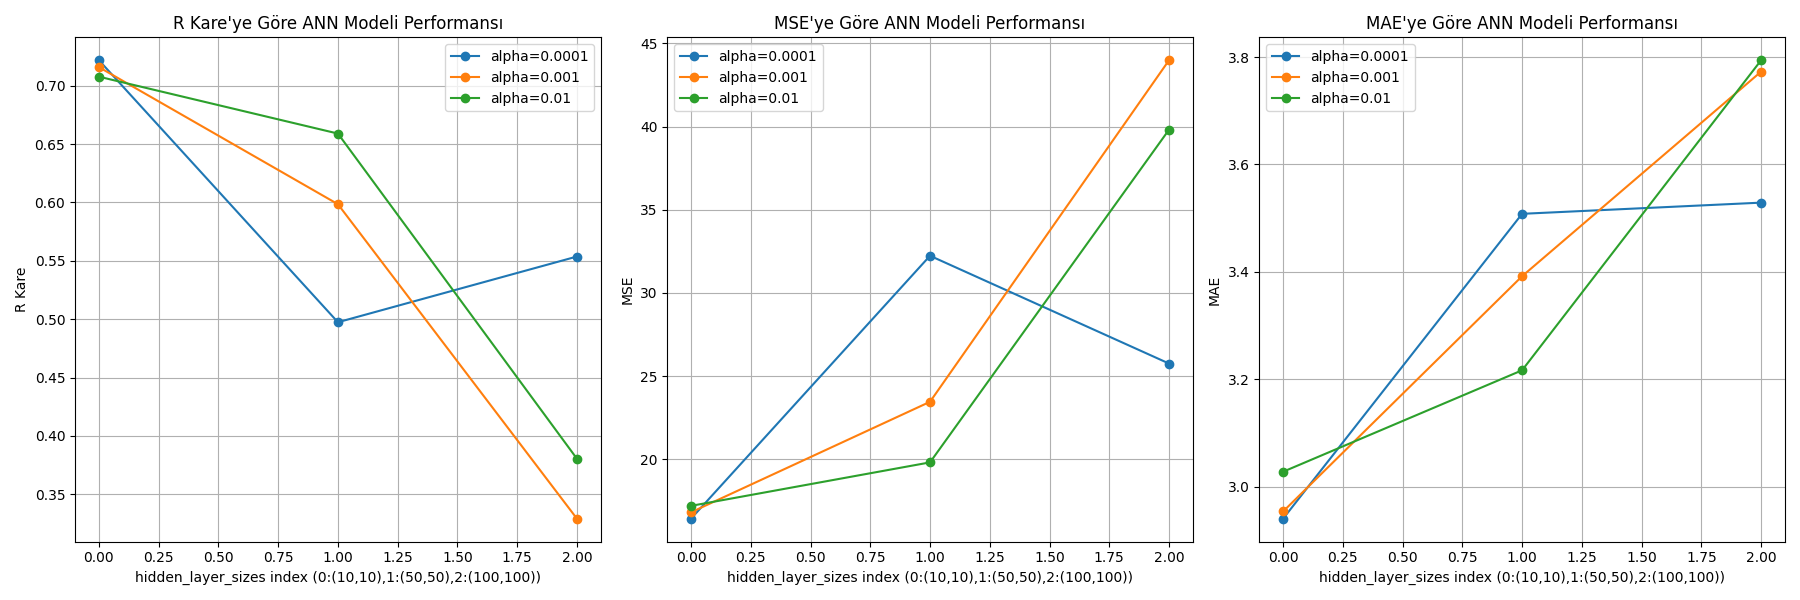
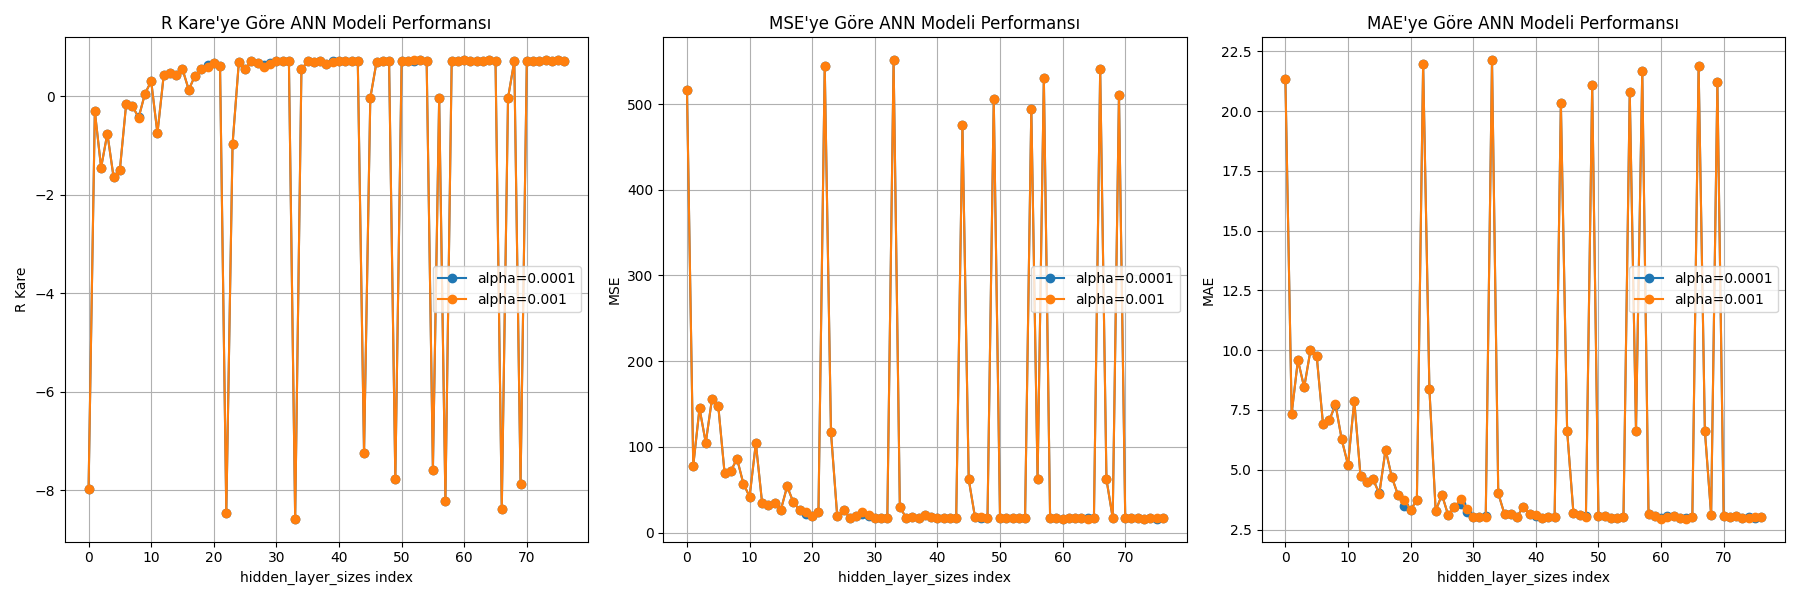
ANN Training Done

diff --git a/Assignment_3/ANN/ann.py b/Assignment_3/ANN/ann.py
@@ -29,19 +29,34 @@ mae_scorer = make_scorer(mean_absolute_error, greater_is_better=False)
 r_kare_scorer = make_scorer(r2_score, greater_is_better=True)
 
 # Hiperparametre adayları
-hidden_layer_sizes_adayları = [(10,10), (50,50), (100,100)]
-alpha_adayları = [0.0001, 0.001, 0.01]
+hidden_layer_sizes_adayları = []
+for katman_sayisi in range(1, 8):
+    for düğüm_sayisi in range(2,13):
+        hidden_layer = tuple([düğüm_sayisi] * katman_sayisi)
+        hidden_layer_sizes_adayları.append(hidden_layer)
+print("hidden_layer_sizes_adayları:", hidden_layer_sizes_adayları)
+
+alpha_adayları = [0.0001, 0.001]
+
+max_iter = 1000
+
+# Eğitim süresini inanılmaz derecede uzattığı ve hali hazırda şu anki eğitime yetecek kadar iyi sonuçlar..
+# ..aldığımız için (r_kare ~0.7) diğer hiperparametreleri değişkenlerini yorum satırına al. Eklemek istersen..
+# ..yorum satırlarını kaldır ve içeriye yeni for döngüleri ekleyerek cross validation sonuçlarını..
+# ..güncelle. Grafikleri güncellemek çok daha sıkıntı olacak, farklı yollar deneyebilirsin.
+
+# activation_adayları = ["identity", "logistic", "tanh", "relu"]
+# solver_adayları = ["lbfgs", "sgd", "adam"]
+# learning_rate_init_adayları = [0.0001, 0.001, 0.01, 0.1, 1]
+# max_iter_adayları = [100, 200, 300, 400, 500, 600, 700, 800, 900, 1000]
 
 # Cross-validation sonuçlarını saklayacağımız DataFrame
 cross_validation_sonuçlar = pd.DataFrame(columns=["hidden_layer_sizes", "alpha", "r_kare", "mse", "mae"])
 
-max_iter = 2000
-solver = 'adam'
-
 # Cross-validation ile sonuçların hesaplanması
 for hidden_layers in hidden_layer_sizes_adayları:
     for alpha_degeri in alpha_adayları:
-        ann_model = MLPRegressor(hidden_layer_sizes=hidden_layers, alpha=alpha_degeri, random_state=random_state, max_iter=max_iter, solver=solver)
+        ann_model = MLPRegressor(hidden_layer_sizes=hidden_layers, alpha=alpha_degeri, random_state=random_state, max_iter=max_iter)
 
         # R Kare
         r_kare_skorları = cross_val_score(ann_model, ozellik_egitim_normalize, hedef_egitim, cv=5, scoring=r_kare_scorer)
@@ -96,7 +111,7 @@ for alpha_degeri in alpha_adayları:
     unique_layers = list(hidden_layer_sizes_adayları)
     x_indices = [unique_layers.index(h) for h in subset["hidden_layer_sizes"]]
     axes[0].plot(x_indices, subset["r_kare"], marker='o', label=f"alpha={alpha_degeri}")
-axes[0].set_xlabel("hidden_layer_sizes index (0:(10,10),1:(50,50),2:(100,100))")
+axes[0].set_xlabel("hidden_layer_sizes index")
 axes[0].set_ylabel("R Kare")
 axes[0].set_title("R Kare'ye Göre ANN Modeli Performansı")
 axes[0].legend()
@@ -108,7 +123,7 @@ for alpha_degeri in alpha_adayları:
     unique_layers = list(hidden_layer_sizes_adayları)
     x_indices = [unique_layers.index(h) for h in subset["hidden_layer_sizes"]]
     axes[1].plot(x_indices, subset["mse"], marker='o', label=f"alpha={alpha_degeri}")
-axes[1].set_xlabel("hidden_layer_sizes index (0:(10,10),1:(50,50),2:(100,100))")
+axes[1].set_xlabel("hidden_layer_sizes index")
 axes[1].set_ylabel("MSE")
 axes[1].set_title("MSE'ye Göre ANN Modeli Performansı")
 axes[1].legend()
@@ -120,7 +135,7 @@ for alpha_degeri in alpha_adayları:
     unique_layers = list(hidden_layer_sizes_adayları)
     x_indices = [unique_layers.index(h) for h in subset["hidden_layer_sizes"]]
     axes[2].plot(x_indices, subset["mae"], marker='o', label=f"alpha={alpha_degeri}")
-axes[2].set_xlabel("hidden_layer_sizes index (0:(10,10),1:(50,50),2:(100,100))")
+axes[2].set_xlabel("hidden_layer_sizes index")
 axes[2].set_ylabel("MAE")
 axes[2].set_title("MAE'ye Göre ANN Modeli Performansı")
 axes[2].legend()
